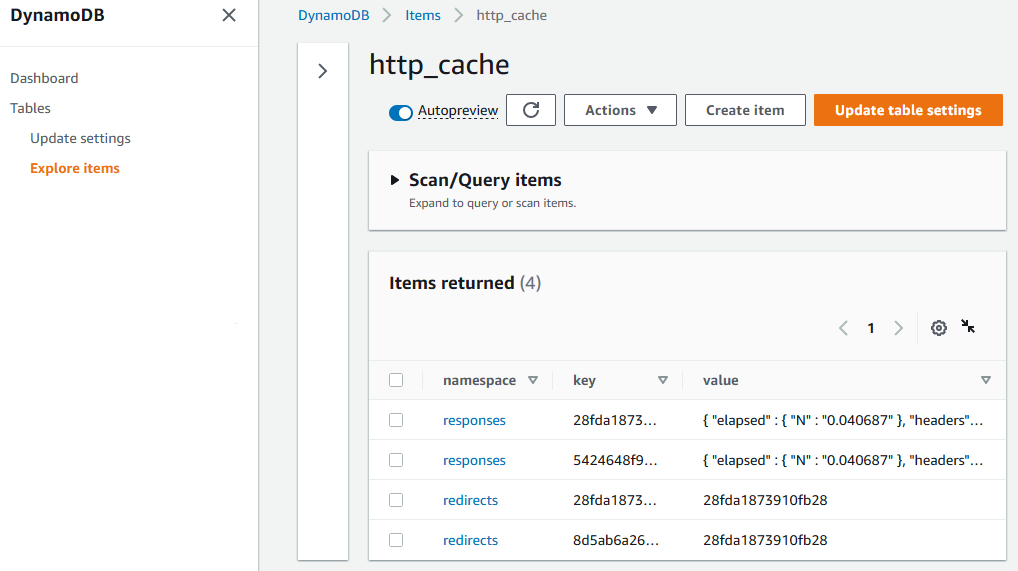
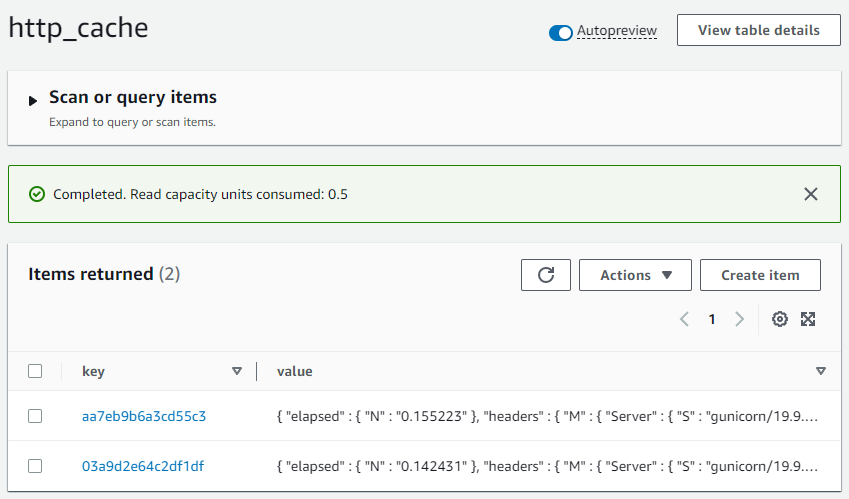
Update docs and screenshots for DynamoDB

diff --git a/HISTORY.md b/HISTORY.md
@@ -31,6 +31,10 @@
 
 💾 **Backends:**
 * **DynamoDB**:
+  * For better read performance and usage of read throughput:
+    * The cache key is now used as the partition key
+    * Redirects are now cached only in-memory and not persisted
+    * Cache size (`len()`) now uses a fast table estimate instead of a full scan
   * Store responses in plain (human-readable) document format instead of fully serialized binary
   * Create default table in on-demand mode instead of provisioned
   * Add optional integration with DynamoDB TTL to improve performance for removing expired responses
@@ -133,7 +137,6 @@ replacements are listed below. If this causes problems for you, please open an i
 
 ⚠ **Breaking changes:**
 
-Some breaking changes have been made that are not expected to affect most users.
 If you encounter a problem not listed here after updating to 1.0, please create a bug report!
 
 * The `BaseCache.urls` property has been replaced with a method that returns a list of URLs
@@ -142,6 +145,7 @@ If you encounter a problem not listed here after updating to 1.0, please create 
     * The `CachedSession` `backend` argument must be either an instance or string alias. Previously it would also accept a backend class.
     * After initialization, cache settings can only be accesed and modified via
     `CachedSession.settings`. Previously, some settings could be modified by setting them on either `CachedSession` or `BaseCache`. In some cases this could silently fail or otherwise have undefined behavior.
+* DynamoDB table structure has changed. If you are using DynamoDB, you will need to create a new table when upgrading to 1.0. See [DynamoDB backend docs](https://requests-cache.readthedocs.io/en/stable/user_guide/backends/dynamodb.html#dynamodb) for more details.
 * The following is relevant for **custom backends** that extend built-in storage classes:
     * All serializer-specific `BaseStorage` subclasses have been removed, and merged into their respective parent classes. This includes `SQLitePickleDict`, `MongoPickleDict`, and `GridFSPickleDict`.
     * All `BaseStorage` subclasses now have a `serializer` attribute, which will be unused if

diff --git a/docs/user_guide/backends/dynamodb.md b/docs/user_guide/backends/dynamodb.md
@@ -61,7 +61,12 @@ And here is an example response:
 ```
 :::
 
-It is also possible query these responses with the [AWS CLI](https://aws.amazon.com/cli), for example:
+It is also possible query these responses with the [AWS CLI](https://aws.amazon.com/cli), for
+example:
+```bash
+aws dynamodb query --table-name http_cache > responses.json
+```
+
 ```bash
 aws dynamodb query \
     --table-name http_cache \
@@ -91,15 +96,23 @@ want to quickly test out DynamoDB as a cache backend, but in a production enviro
 likely want to create the tables yourself, for example with
 [CloudFormation](https://aws.amazon.com/cloudformation/) or [Terraform](https://www.terraform.io/).
 
-Here are the details you will need:
-
+You just need a table with a single partition key. A `value` attribute (containing response data)
+will be created dynamically once items are added to the table.
 - Table: `http_cache` (or any other name, as long as it matches the `table_name` parameter for `DynamoDbCache`)
 - Attributes:
-  - `namespace`: String
   - `key`: String
 - Keys:
-  - Partition key (aka namespace): `namespace`
-  - Range key (aka sort key): `key`
+  - Partition key (aka hash key): `key`
+
+Example of manually creating a table in the console:
+:::{dropdown} Screenshot
+:animate: fade-in-slide-down
+:color: primary
+:icon: file-media
+
+```{image} ../../_static/dynamodb_create_table.png
+```
+:::
 
 ### Example CloudFormation Template
 :::{dropdown} Example
